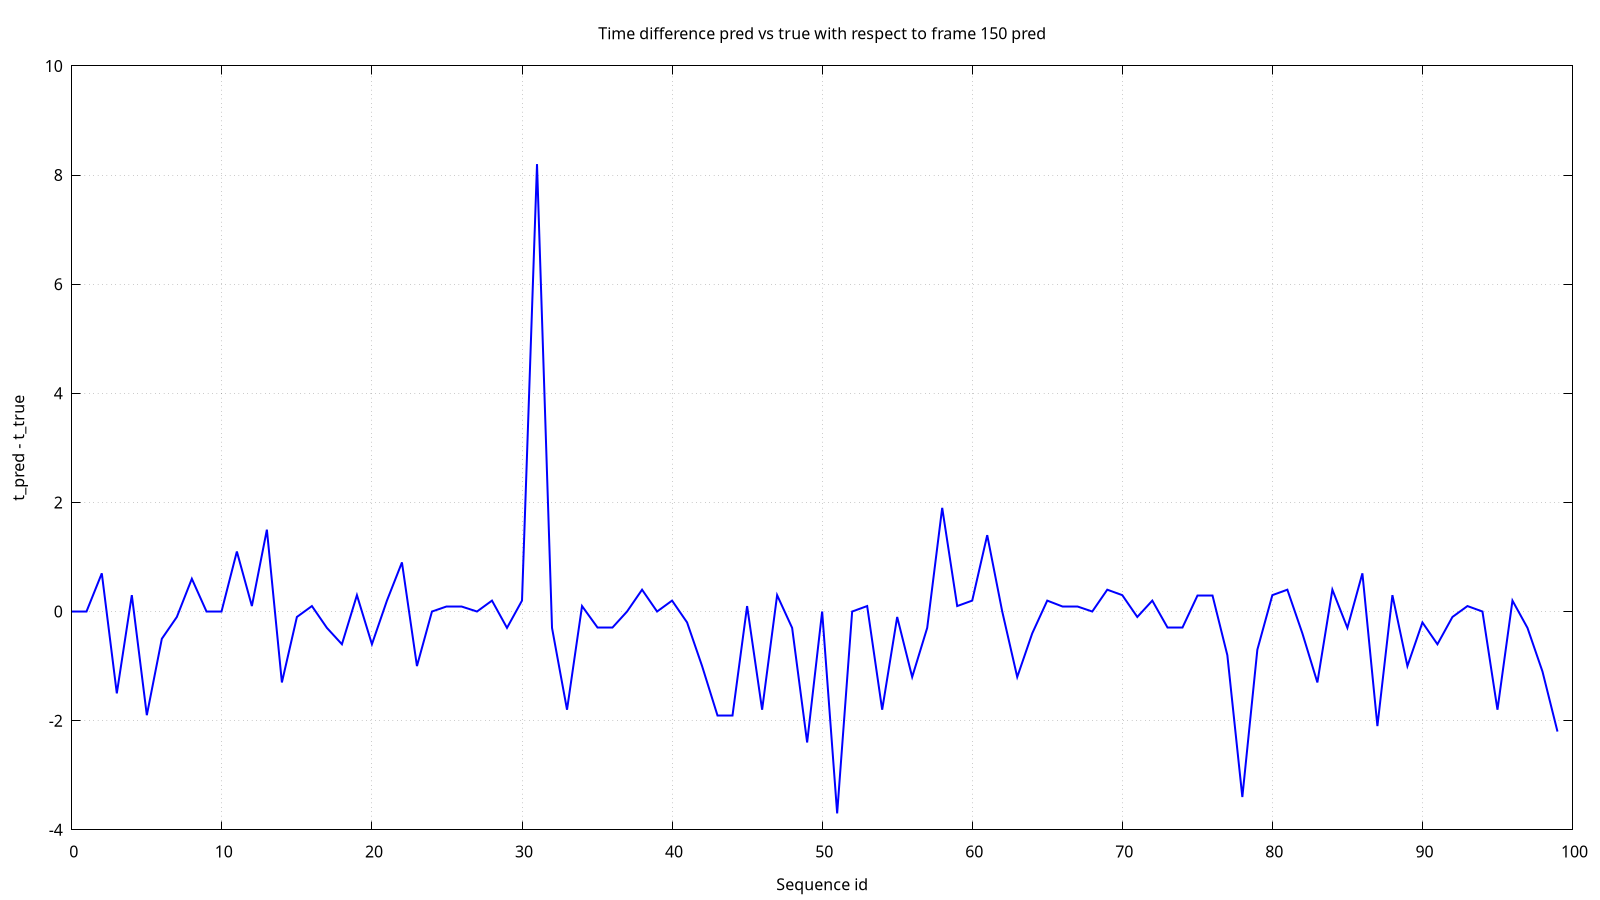
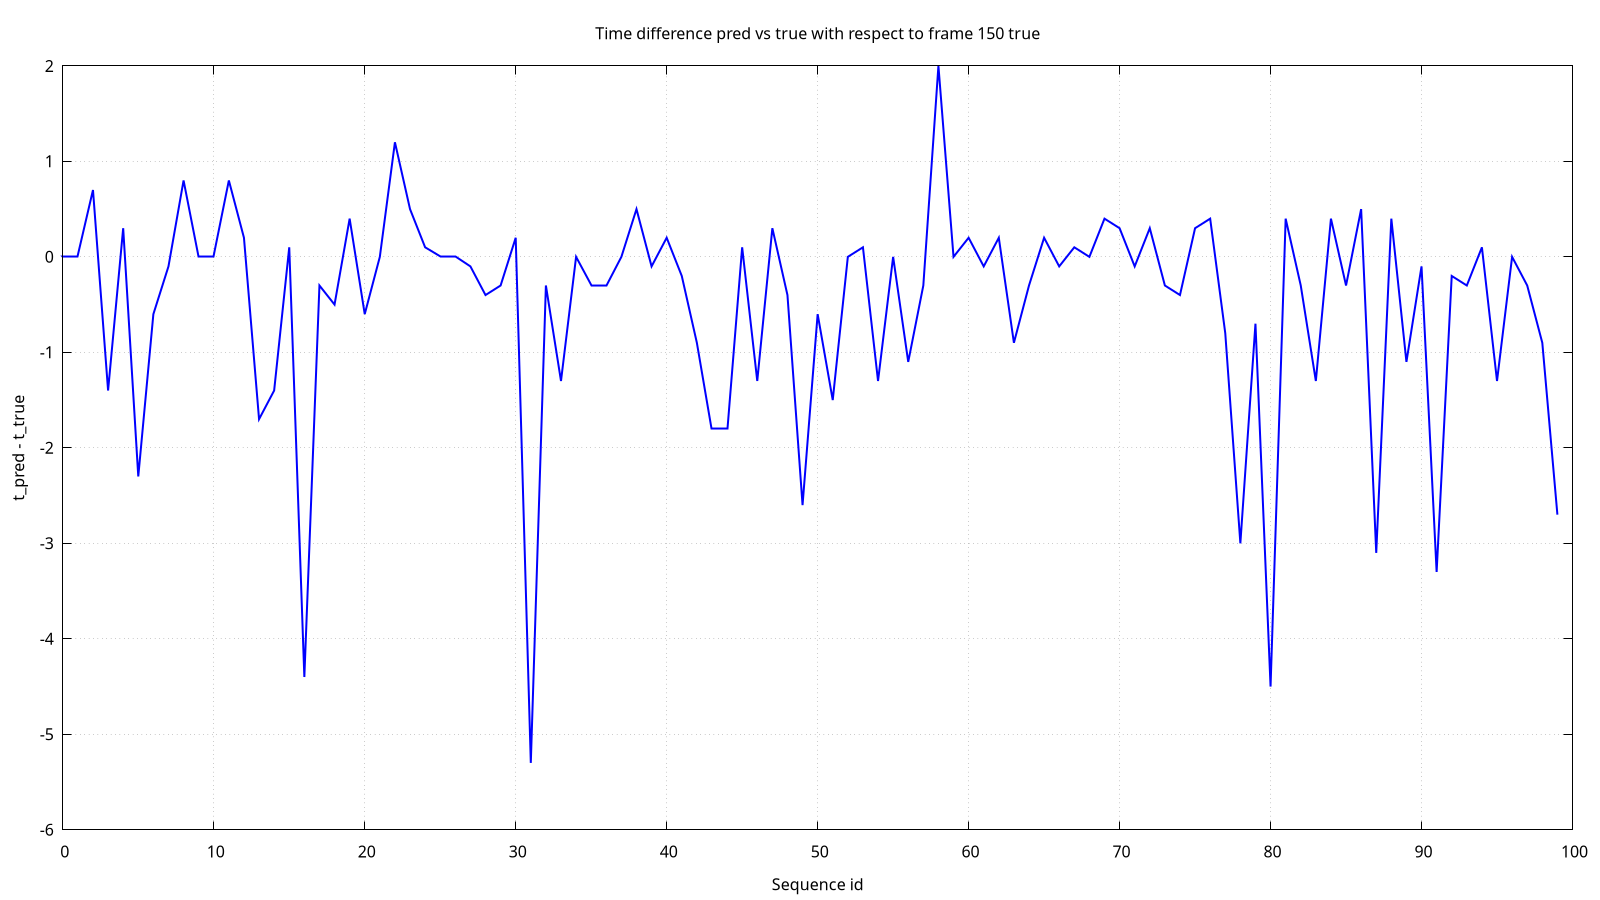
fem

diff --git a/machine_learning/train_pores/find_nearest_npy.py b/machine_learning/train_pores/find_nearest_npy.py
@@ -79,7 +79,7 @@ def main() -> None:
             # tempo pred dal nome snap_X.npy
             t_pred = time_from_name(nearest_file)
 
-            t_diff = t_pred - t_true
+            t_diff = t_pred/10 - t_true
 
             f.write(
                 f"{folder_idx:03d}\t{true_file.name}\t{nearest_file.name}\t{mae}\t{t_diff}\n"
